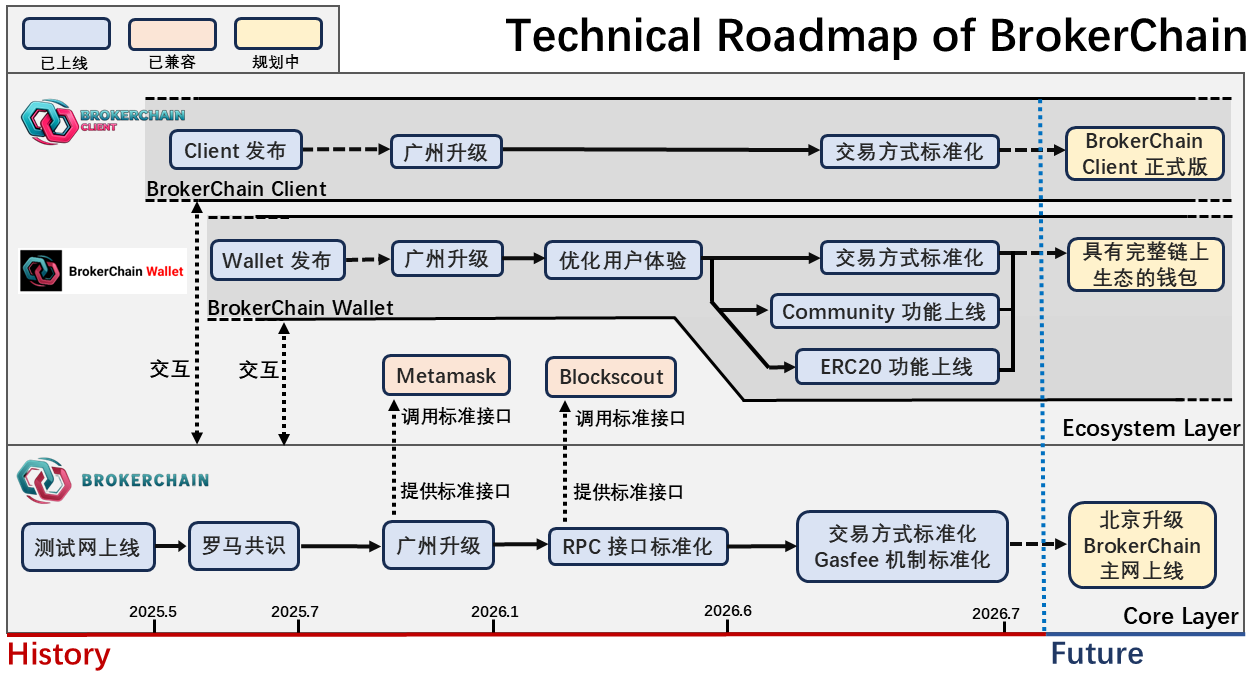
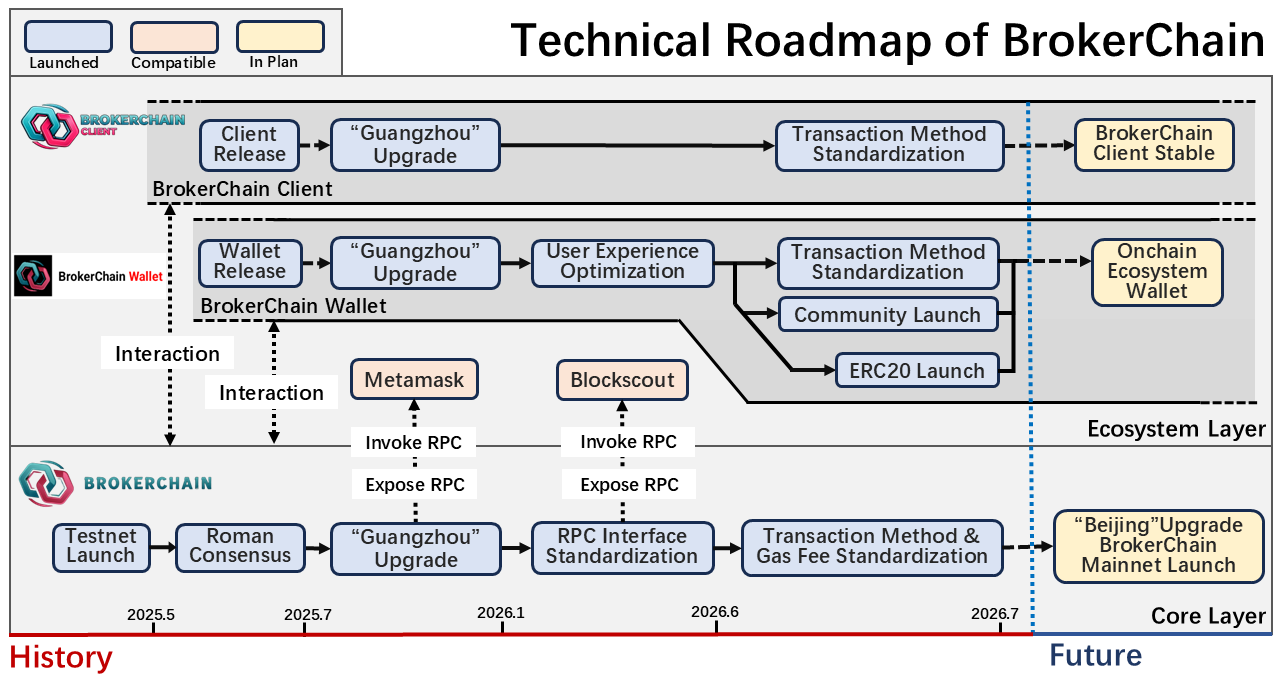
docs: update the roadmap

Changed region(s): [[0.0, 0.0, 0.9984, 0.9941], [0.78, 0.6524, 0.8424, 0.6834]]

diff --git a/README.md b/README.md
@@ -26,7 +26,7 @@ The total supply of BrokerChain's tokens (named **BKC**) will be capped at 1.2 b
 ### Technical Roadmap of BrokerChain 
 The Technical Roadmap of BrokerChain documents all major upgrades and technical changes in BrokerChain's history, while also outlining its future vision. By reviewing this roadmap, users and developers can gain a clear understanding of BrokerChain's technical evolution and future plans.
 
-![Technical Roadmap of BrokerChain](images/img_29.png)
+![Technical Roadmap of BrokerChain](images/img_28.png)
 
 
 ### Follow our X (Twitter)
